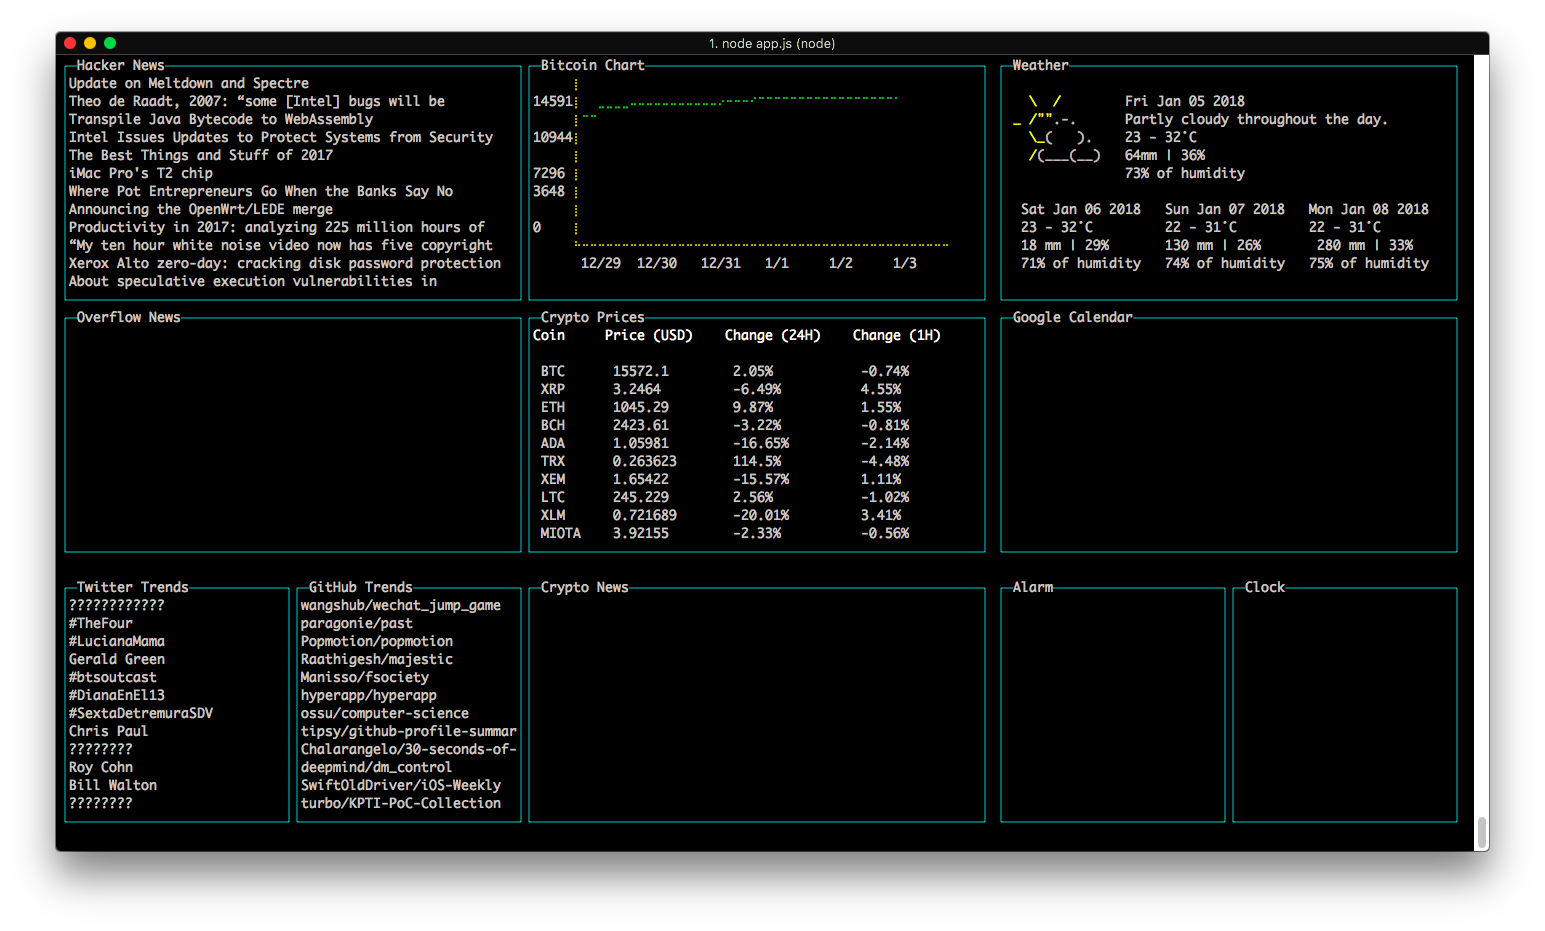
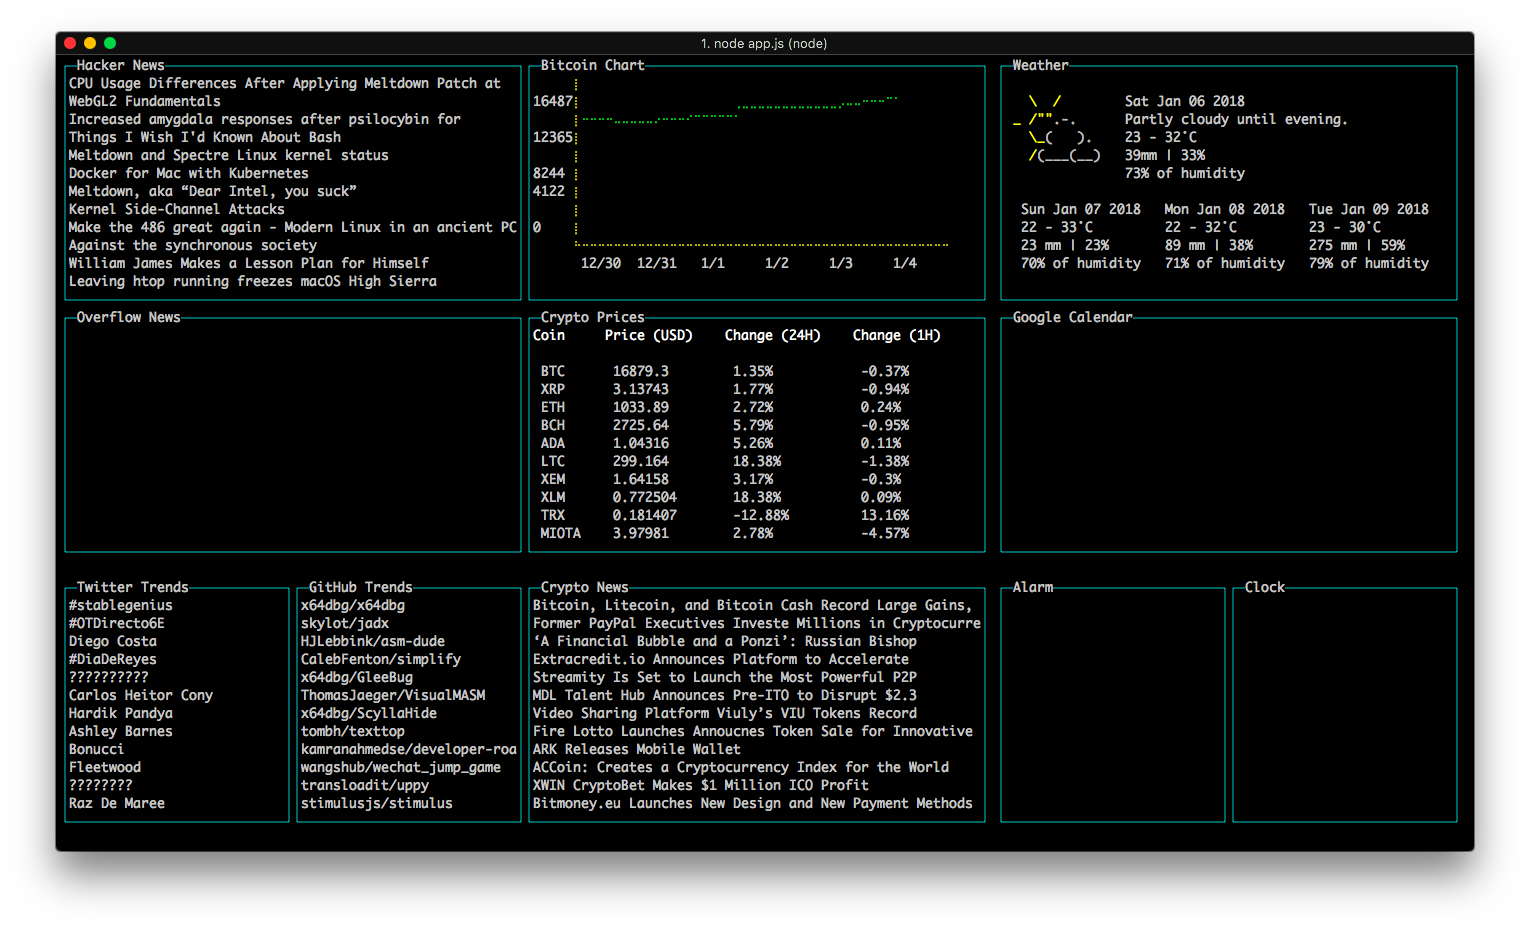
Update screenshot

diff --git a/modules/cryptoNews/index.js b/modules/cryptoNews/index.js
@@ -11,7 +11,7 @@ function get(callback) {
       const articles = response.data.articles;
       let news = [];
 
-      for (var i = 0; i < 11; i++) {
+      for (var i = 0; i < 12; i++) {
         news.push(articles[i].title);
       }
 
@@ -20,3 +20,4 @@ function get(callback) {
 }
 
 module.exports = { get, config };
+

diff --git a/modules/cryptoNews/config.js b/modules/cryptoNews/config.js
@@ -1,3 +1,4 @@
 module.exports = {
   label: 'Crypto News'
 };
+
